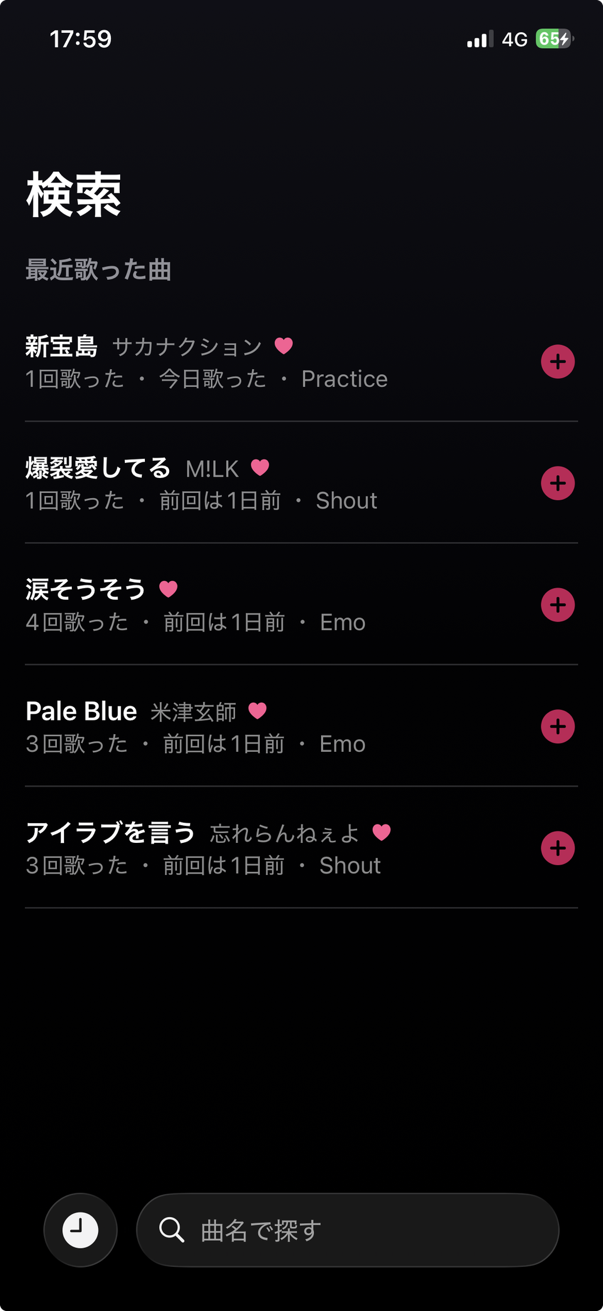
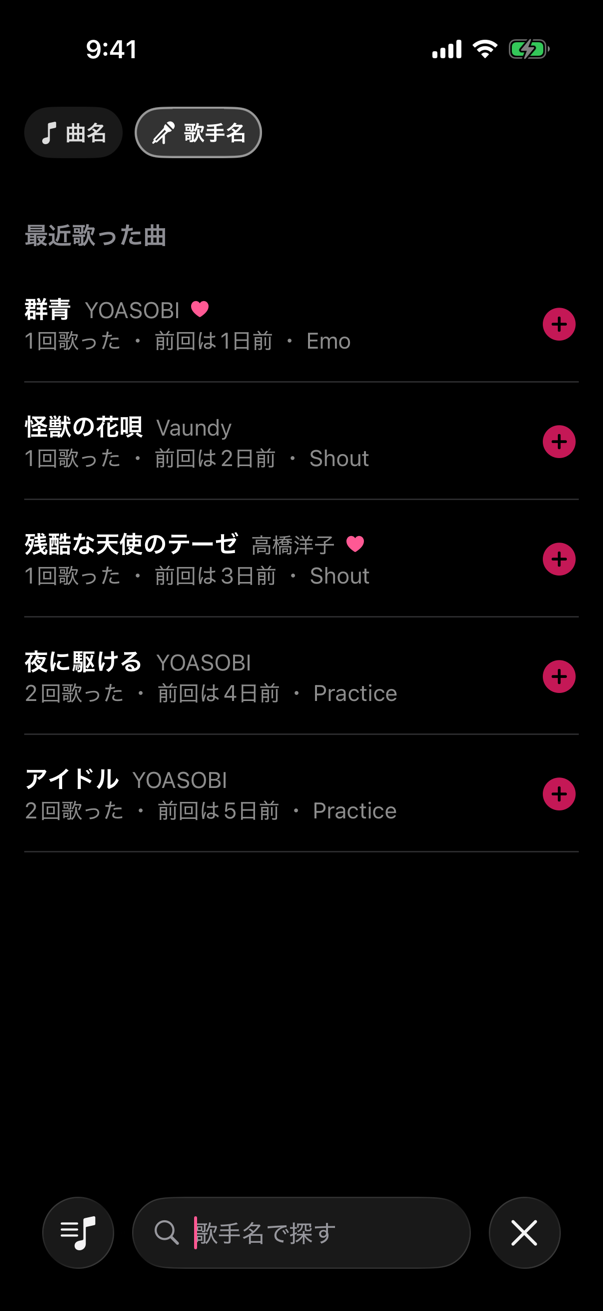
docs: 検索でのフィルター(曲名, 歌手名)での変更をドキュメントを更新

diff --git a/docs/adr/0066-search-tab-name-artist-scope.md b/docs/adr/0066-search-tab-name-artist-scope.md
@@ -1,4 +1,4 @@
-# 0066. 検索タブは検索欄の下の標準の切り替えで、曲名と歌手名のどちらで探すかを選ぶ
+# 0066. 検索タブは履歴と同じチップで、曲名と歌手名のどちらで探すかを選ぶ
 
 - 2026-11-20 提案 ／ 2026-11-20 承認
 - 背景：#105 で記録シートの「もしかして」は曲名からも歌手名からも引けるようになったが、検索タブは曲名でしか探せない。「米津」と打っても何も出ず、記録シートとの食い違いに気づきやすい（#179）。決めるのは、切り替えの置き場所、初期値と覚えておくか、打つ前に出す「最近歌った曲」を切り替えで変えるかの 3 つ
@@ -21,7 +21,7 @@
 
 1. 置き場所
 - A は iOS の標準の見た目と動きで、コードも少ない。検索欄を開いている間だけ出る
-- B はアプリの見た目にそろうが、選んだ状態や読み上げを自前で作ることになり、コードが増える
+- B はアプリの見た目にそろうが、選んだ状態や読み上げを自前で持つことになる。打つ前の候補（0052）が本文を覆う間はチップが隠れるので、候補の中にも同じチップを置き、候補と本文で位置をそろえる必要がある。チップは 44pt より低いので、押せる範囲を別に広げる必要がある
 
 2. 初期値
 - A は開いたときにどちらで探すかがいつも同じで迷わない。保存する状態も増えない。歌手名でよく探す人は毎回切り替える手間がある
@@ -33,7 +33,7 @@
 
 ## 決めたこと
 
-1. A。`.searchScopes(_:activation: .onSearchPresentation)` で、検索欄を開いた時点から「曲名｜歌手名」を出す。打つ前から選べるようにするため。検索欄の文も「曲名で探す」「歌手名で探す」に合わせて変える
+1. B。履歴の「すべて」と同じ無彩色のチップ（`IntentChipView` を使い回す `SearchTargetBarView`）を画面の上に出す。打つ前に最近歌った曲を検索の候補（`searchSuggestions`、0052）で出している間は、候補が本文を覆うので、候補のいちばん上にも同じチップを出す。候補の中と本文で、チップの位置をそろえる。`IntentChipView` は見た目を変えずに、押せる範囲を高さ 44pt 以上にする（履歴と選曲画面のチップにも効く）。検索欄の文も「曲名で探す」「歌手名で探す」に合わせて変える
 2. A。`SearchViewModel.target` の初期値は曲名で、覚えない
 3. A。最近歌った曲は切り替えで変えない
 - 歌手名で探すときは `searchLocalByArtist` を使い、その歌手の歌ったことがある曲を出す。歌手名のない曲は出ない
@@ -42,7 +42,7 @@
 
 ## 選んだ理由
 
-- 1 は A。標準の部品なら、見た目・選んだ状態・読み上げを iOS がそろえてくれ、作るものが少ない。検索欄と同じ場所にあるので、何を切り替えるのかも分かりやすい
+- 1 は B。はじめは A で作ったが、灰色の標準の切り替えだけがアプリのほかの画面の見た目から浮いていた。履歴・選曲画面と同じチップにそろえれば、同じアプリの中の切り替えだと分かる。チップは前からある部品を使い回すので、作るものは少ない
 - 2 は A。曲名で探すことがいちばん多く、毎回同じところから始まるほうが迷わない。覚えると、保存する状態が増えるうえ、開いたときにどちらか分かりにくくなる
 - 3 は A。今回の目的は、記録シートと同じく歌手名からも引けるようにすることで、打つ前の画面まで作り直す理由はない。今と同じ画面なら、行の形と動きを増やさずに済む
 
@@ -52,4 +52,4 @@
 - 曲名と歌手名を切り替えずに、両方から一度に探したくなったとき
 - 表記ゆれ（#94〜#96）を直して、検索の当て方を変えたとき
 
-関連：#179、#105、#142、[0011](0011-identify-tracks-by-name-and-artist.md)
+関連：#179、#105、#142、[0011](0011-identify-tracks-by-name-and-artist.md)、[0052](0052-search-tab-tells-by-ui.md)

diff --git a/docs/adr/README.md b/docs/adr/README.md
@@ -71,7 +71,7 @@
 | [0063](0063-rate-limit-by-client-ip-and-health-without-db.md) | レート制限は Cloud Run が足した相手の IP ごとにトークンバケットで数え、`/health` は DB を見ない | 承認 |
 | [0064](0064-beta-build-configuration-and-privacy-manifest.md) | Beta の構成は Release を写して xcconfig と専用のスキームで作り、Privacy Manifest は構成ごとに外して差し替える | 承認 |
 | [0065](0065-edit-track-artist-and-merge-duplicates.md) | 曲の歌手名は曲詳細から直し、別の曲と重なったら確かめてまとめる | 承認 |
-| [0066](0066-search-tab-name-artist-scope.md) | 検索タブは検索欄の下の標準の切り替えで、曲名と歌手名のどちらで探すかを選ぶ | 承認 |
+| [0066](0066-search-tab-name-artist-scope.md) | 検索タブは履歴と同じチップで、曲名と歌手名のどちらで探すかを選ぶ | 承認 |
 
 ## 書き方
 

diff --git a/README.md b/README.md
@@ -19,7 +19,7 @@
   <img src="docs/screenshots/after-save.png" alt="保存直後の次の1曲の提案" width="160">
   <img src="docs/screenshots/history.png" alt="履歴" width="160">
   <img src="docs/screenshots/track-detail.png" alt="曲詳細" width="160">
-  <img src="docs/screenshots/search.png" alt="検索タブ（打つ前は最近歌った曲が出る）" width="160">
+  <img src="docs/screenshots/search.png" alt="検索タブ（曲名と歌手名を切り替えて探す。打つ前は最近歌った曲が出る）" width="160">
 </p>
 
 ---
